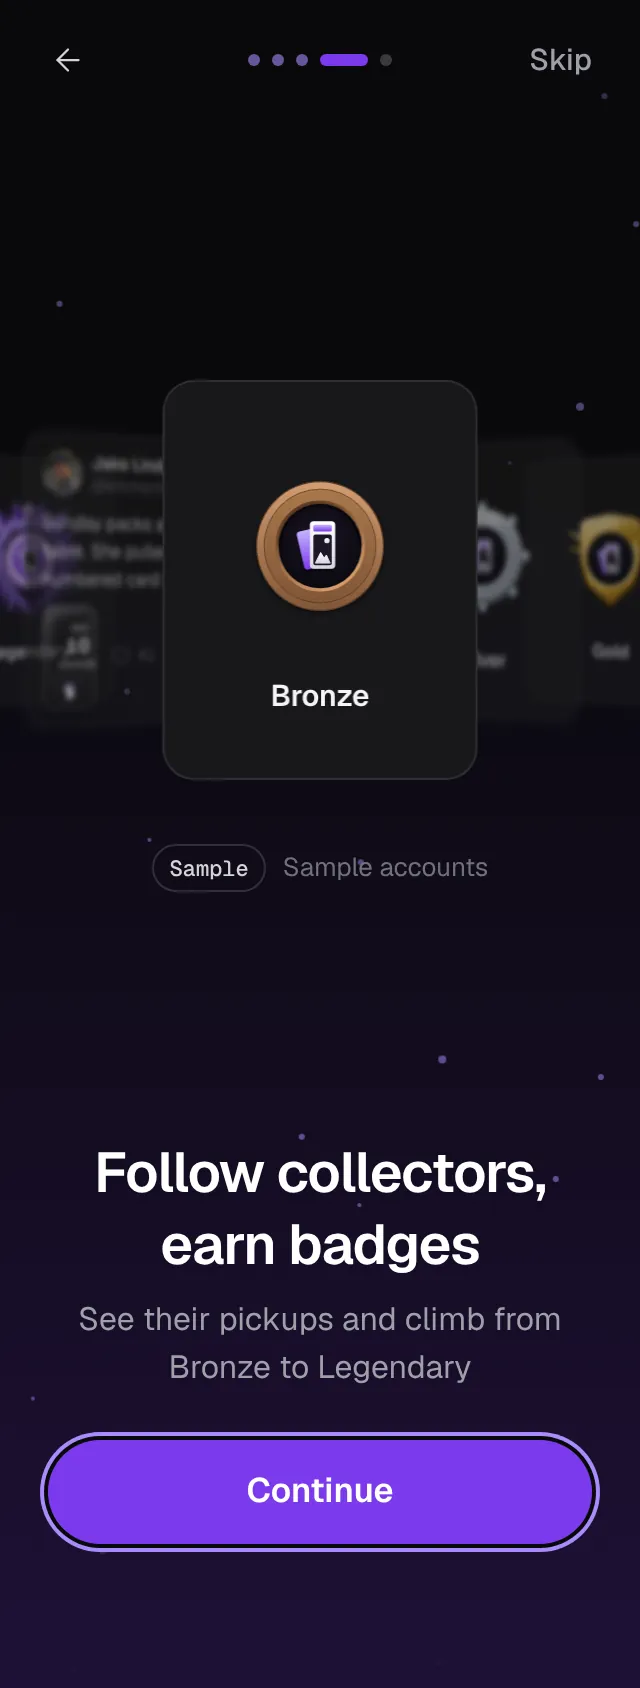
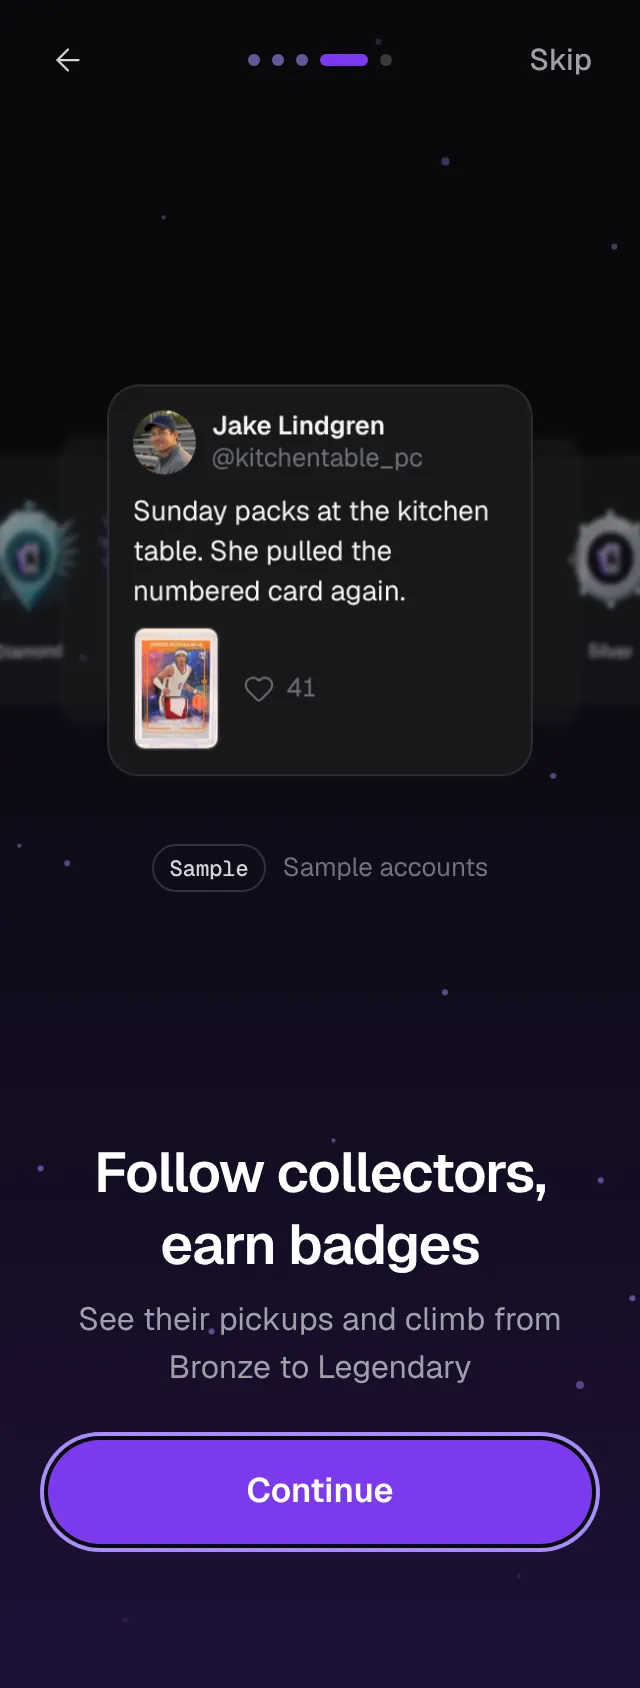
Landing fixes: plain Quick Comp claim, the real card on the kitchen-table pickup
- Drop the "as good as the paid tools" comparison. Landing sub-line (flag
  on): "Recent sold prices for any card, free with an account. Then track
  your cards and share them with collectors who get it." Quick Comp chapter:
  "Recent sold prices, the median and the range. Free with an account."
- Add Donnie's own card photo (public/landing/kitchen-table-card.webp, as
  supplied) to Jake's kitchen-table pickup in the landing timeline and on
  intro screen 4, as a plain lazy <img>. Other pickups keep the sample slab.
- README section for the photo; tests for both changes; recapture
  landing-timeline and intro-4 at 390 and 320.

Claude-Session: https://claude.ai/code/session_01EqJouzsrLaJEhuptaFG1UW

Changed region(s): [[0.0, 0.2156, 0.8438, 0.4621], [0.875, 0.2773, 1.0, 0.3697], [0.375, 0.4005, 0.5938, 0.4313]]

diff --git a/components/landing/showcase/showcase.test.tsx b/components/landing/showcase/showcase.test.tsx
@@ -160,7 +160,8 @@ describe("landing chapters", () => {
     const host = await mount(createElement(TimelineDemo, { run: 0 }));
     const images = [...host.querySelectorAll("img")].map((img) => img.getAttribute("src") ?? "");
     assert.ok(images.length > 0);
-    for (const src of images) assert.match(src, /^\/landing\/avatars\/[a-z0-9_]+\.webp$/);
+    // Avatars, plus Donnie's own card photo on the kitchen-table pickup.
+    for (const src of images) assert.match(src, /^\/landing\/(avatars\/[a-z0-9_]+|kitchen-table-card)\.webp$/);
     for (const img of host.querySelectorAll("img")) {
       assert.equal(img.getAttribute("loading"), "lazy");
       assert.equal(img.getAttribute("decoding"), "async");
@@ -170,6 +171,32 @@ describe("landing chapters", () => {
     assert.ok(handles.length > 0);
     for (const handle of handles) assert.ok(personaRows.has(handle), handle);
     assert.equal(host.querySelectorAll("a").length, 0, "no handle is a link");
+  });
+
+  it("puts the real card photo on the kitchen-table pickup only, as a plain lazy image", async () => {
+    assert.ok(existsSync(join(ROOT, "public/landing/kitchen-table-card.webp")));
+    const photo = readFileSync(join(ROOT, "public/landing/kitchen-table-card.webp"));
+    assert.equal(photo.subarray(8, 12).toString(), "WEBP");
+    const { default: TimelineDemo } = await import("@/components/landing/showcase/timeline-demo");
+    const host = await mount(createElement(TimelineDemo, { run: 0 }));
+    const kitchen = host.querySelector('[data-copy="0"] [data-post="p1"]');
+    const img = kitchen?.querySelector('img[src="/landing/kitchen-table-card.webp"]');
+    assert.ok(img, "p1 shows the photo");
+    assert.equal(img.getAttribute("alt"), "Numbered patch card in a top-loader");
+    assert.equal(img.getAttribute("width"), "300");
+    assert.equal(img.getAttribute("height"), "420");
+    assert.equal(img.getAttribute("loading"), "lazy");
+    assert.equal(img.getAttribute("decoding"), "async");
+    assert.match(img.getAttribute("class") ?? "", /aspect-\[5\/7\] w-16/);
+    assert.match(kitchen?.textContent ?? "", /Pickup/, "keeps the Pickup pill");
+    const others = host.querySelectorAll('[data-copy="0"] [data-post]:not([data-post="p1"]) img[src="/landing/kitchen-table-card.webp"]');
+    assert.equal(others.length, 0, "other pickups keep the sample slab");
+    for (const file of ["components/landing/showcase/timeline-demo.tsx", "components/onboarding/intro/screens.tsx"]) {
+      const source = read(file);
+      assert.match(source, /src="\/landing\/kitchen-table-card\.webp"/, file);
+      assert.doesNotMatch(source, /kitchen-table-card[^"]*\.(avif|png|jpe?g)|next\/image/, file);
+    }
+    assert.match(read("components/onboarding/intro/screens.tsx"), /kitchen-table-card\.webp"[^>]*className="aspect-\[5\/7\] w-11/);
   });
 
   it("shows final frames with reduced motion and runs no animations", async () => {

diff --git a/components/landing/landing-copy.test.tsx b/components/landing/landing-copy.test.tsx
@@ -43,7 +43,8 @@ const DESCRIPTION = "Comp any sports card, track your collection and follow the 
 describe("landing copy", () => {
   it("sells Quick Comp in the sub-line and closing card when the flag is on", async () => {
     const page = await landingText("1");
-    assert.match(page, /Comps as good as the paid tools, free with an account\. Then track your cards and share them with collectors who get it\./);
+    assert.match(page, /Recent sold prices for any card, free with an account\. Then track your cards and share them with collectors who get it\./);
+    assert.doesNotMatch(page, /as good as|paid tools/i, "no comparison claims");
     assert.match(page, /Comp a card, bring your collection, find your people\. It takes a minute\./);
   });
 
@@ -51,7 +52,7 @@ describe("landing copy", () => {
     const page = await landingText(undefined);
     assert.match(page, /Track your sports cards with recent sold prices, and share them with collectors who get it\./);
     assert.match(page, /Bring your collection, find your people\. It takes a minute\./);
-    assert.doesNotMatch(page, /Comp a card|paid tools/);
+    assert.doesNotMatch(page, /Comp a card|Recent sold prices for any card/);
   });
 
   it("describes today's Slabhold in the metadata and the manifest", async () => {
@@ -66,5 +67,18 @@ describe("landing copy", () => {
     const { homeShareImage } = await import("@/lib/social/share-image");
     const image = homeShareImage();
     for (const line of [image.kicker, image.title, image.detail]) assert.doesNotMatch(String(line), /free/i);
+  });
+});
+
+describe("landing claims", () => {
+  it("never compares Quick Comp to other tools, and the chapter line says what it shows", async () => {
+    for (const file of ["components/landing-page.tsx", "components/landing/feature-panels.tsx"]) {
+      assert.doesNotMatch(read(file), /as good as|paid tools/i, file);
+    }
+    const { CHAPTERS } = await import("@/components/landing/feature-panels");
+    assert.equal(
+      CHAPTERS.find((chapter) => chapter.id === "quick-comp")?.line,
+      "Recent sold prices, the median and the range. Free with an account.",
+    );
   });
 });

diff --git a/components/landing/showcase/timeline-demo.tsx b/components/landing/showcase/timeline-demo.tsx
@@ -175,14 +175,13 @@ function PostRow({ post, liked }: { post: SamplePost; liked: boolean }) {
           {post.pickup ? (
             <div className="mt-3 flex items-center gap-3">
               <div className="w-16 shrink-0">
-                <CardSlabArt
-                  card={SAMPLE_SLABS[post.id === "p1" ? 2 : 1]}
-                  index={9}
-                  source={NO_PHOTO}
-                  status="loading"
-                  onStatus={noop}
-                  sizes="64px"
-                />
+                {post.id === "p1" ? (
+                  // Donnie's own card, used with his OK. Plain and lazy: no optimizer.
+                  // eslint-disable-next-line @next/next/no-img-element
+                  <img src="/landing/kitchen-table-card.webp" alt="Numbered patch card in a top-loader" width={300} height={420} loading="lazy" decoding="async" draggable={false} className="aspect-[5/7] w-16 rounded-md border border-white/10 object-cover" />
+                ) : (
+                  <CardSlabArt card={SAMPLE_SLABS[1]} index={9} source={NO_PHOTO} status="loading" onStatus={noop} sizes="64px" />
+                )}
               </div>
               <PostPill label="Pickup" />
             </div>

diff --git a/components/onboarding/intro/screens.tsx b/components/onboarding/intro/screens.tsx
@@ -364,8 +364,10 @@ export function SocialVisual({ motion }: { motion: boolean }) {
                     </div>
                     <p className="mt-2 text-[14px] leading-5 text-zinc-100">{post.body}</p>
                     <div className="mt-2 flex items-center gap-3">
-                      <div className="w-11">
-                        <CardSlabArt card={SAMPLE_SLABS[2]} index={9} source={NO_PHOTO} status="loading" onStatus={noop} sizes="44px" />
+                      <div className="w-11 shrink-0">
+                        {/* Donnie's own card on Jake's kitchen-table post, used with his OK. */}
+                        {/* eslint-disable-next-line @next/next/no-img-element */}
+                        <img src="/landing/kitchen-table-card.webp" alt="Numbered patch card in a top-loader" width={300} height={420} loading="lazy" decoding="async" draggable={false} className="aspect-[5/7] w-11 rounded-md border border-white/10 object-cover" />
                       </div>
                       <span className="flex items-center gap-1.5 text-[13px] text-zinc-500 tabular-nums">
                         <Heart aria-hidden size={16} strokeWidth={1.5} />

diff --git a/components/landing/feature-panels.tsx b/components/landing/feature-panels.tsx
@@ -25,7 +25,7 @@ const GraphsDemo = lazy(() => import("@/components/landing/showcase/graphs-demo"
 type PopupComponent = ComponentType<{ tier: BadgeTier; onClose: () => void }>;
 
 export const CHAPTERS = [
-  { id: "quick-comp", title: "Quick Comp", line: "Comps as good as the paid tools. Free with an account." },
+  { id: "quick-comp", title: "Quick Comp", line: "Recent sold prices, the median and the range. Free with an account." },
   { id: "timeline", title: "Collectors talking cards", line: "Follow collectors and see their pickups, questions and replies as they post." },
   { id: "graphs", title: "Your collection, over time", line: "Your cards add up to one value, with its history drawn day by day." },
   { id: "achievements", title: "Earn every tier", line: "Climb from Bronze to Legendary as your collection grows." },

diff --git a/components/landing-page.tsx b/components/landing-page.tsx
@@ -46,7 +46,7 @@ export function LandingPage({ founder = null }: { founder?: FounderShowcase | nu
             </h1>
             <p className="mx-auto mt-4 max-w-sm text-[16px] leading-6 text-zinc-400 lg:mx-0">
               {quickComp
-                ? "Comps as good as the paid tools, free with an account. Then track your cards and share them with collectors who get it."
+                ? "Recent sold prices for any card, free with an account. Then track your cards and share them with collectors who get it."
                 : "Track your sports cards with recent sold prices, and share them with collectors who get it."}
             </p>
             <LandingCta />

diff --git a/public/landing/README.md b/public/landing/README.md
@@ -23,6 +23,18 @@ How it was captured (Nov 2026):
 - **Size:** 390×823 CSS px at 2.2×, dark theme, saved as an 860×1815 PNG:
   the same shape as the phone frame (252×532), so nothing is cropped.
 
+## `kitchen-table-card.webp`
+
+Donnie's own card photo, used with his OK on the sample kitchen-table pickup
+(Jake's post) in the landing timeline and on intro screen 4. A raw card in a
+top-loader on a stand: LaBaron Philon, Origins Memorabilia patch, 06/10,
+Panini NIL. It's a real card, so it shows the Panini NIL and Nike marks, and
+no team or league logos.
+
+300×420 (5:7) WebP, quality 85, about 19 KB, metadata stripped, added as
+supplied. Keep it a plain lazy `<img>` with `width`/`height`: no optimizer,
+no next/image, no AVIF, no re-encoding.
+
 ## `avatars/`
 
 Eight fictional, AI-generated demo personas and `personas.md` (handles,
